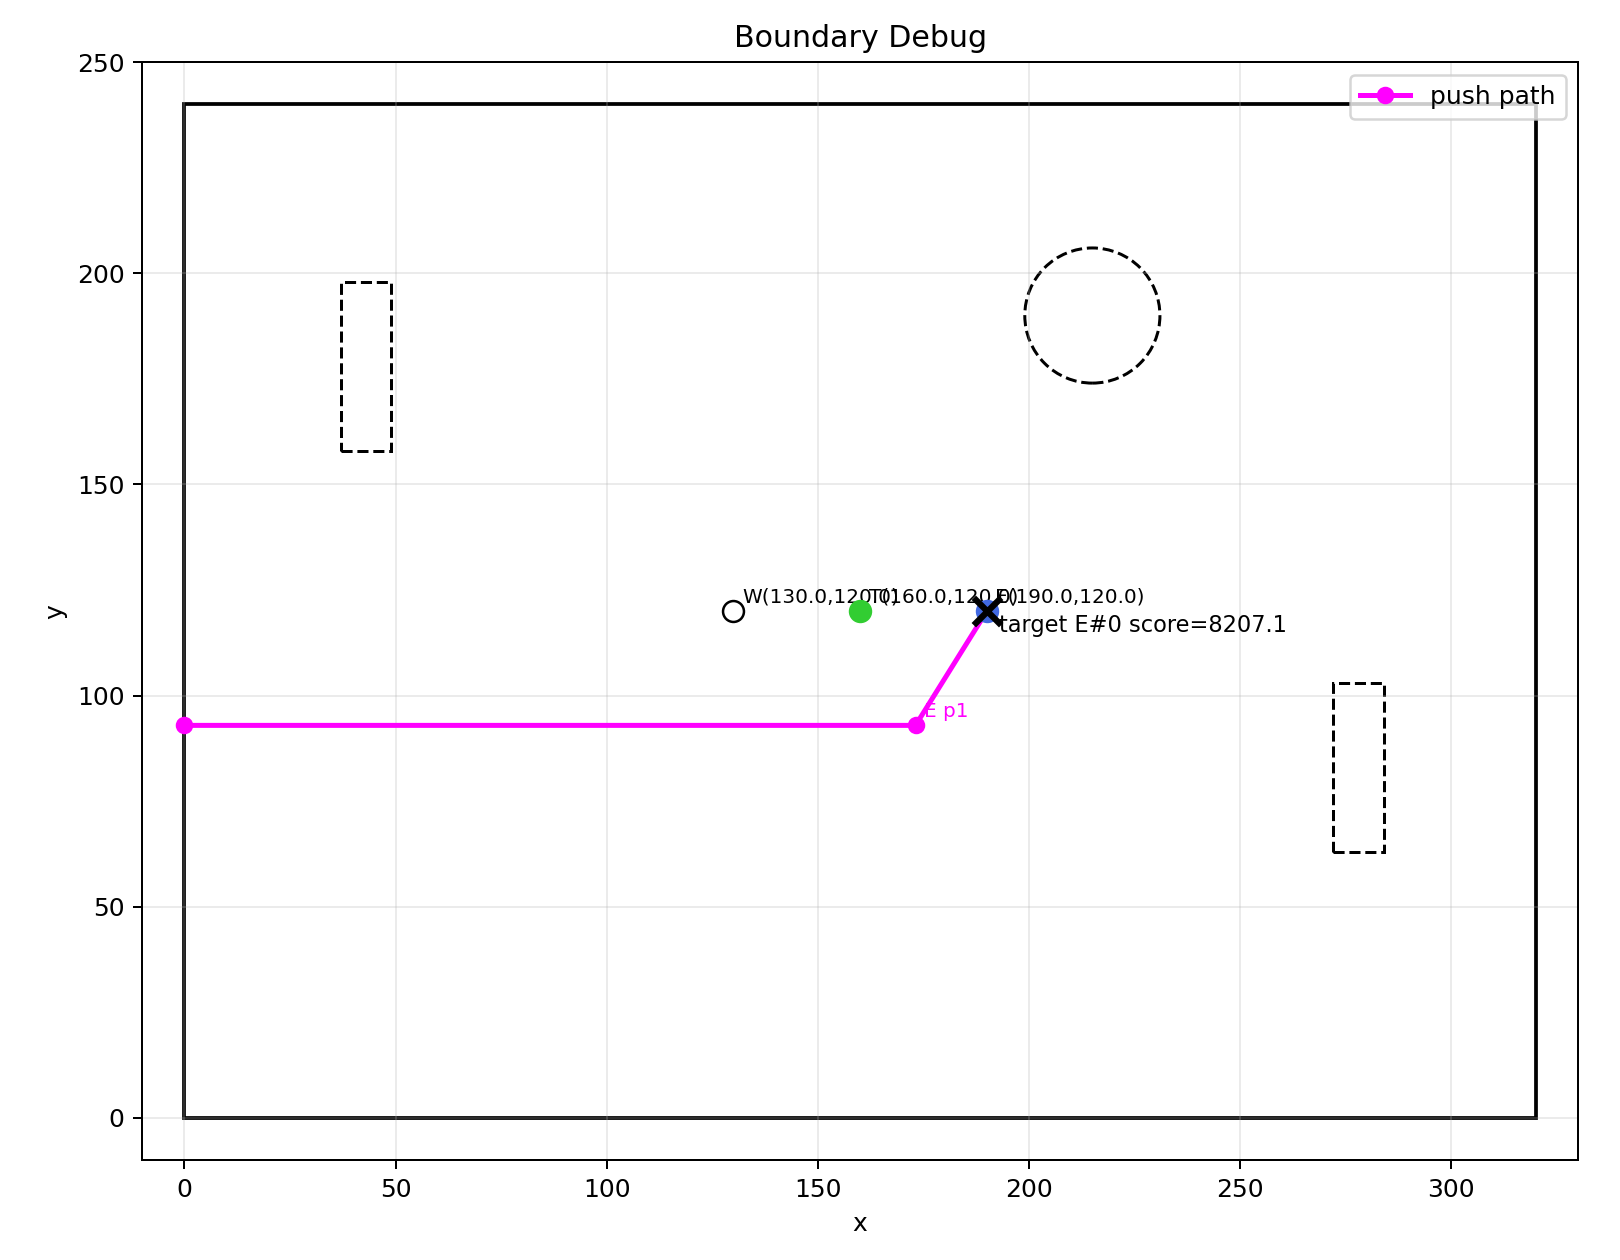
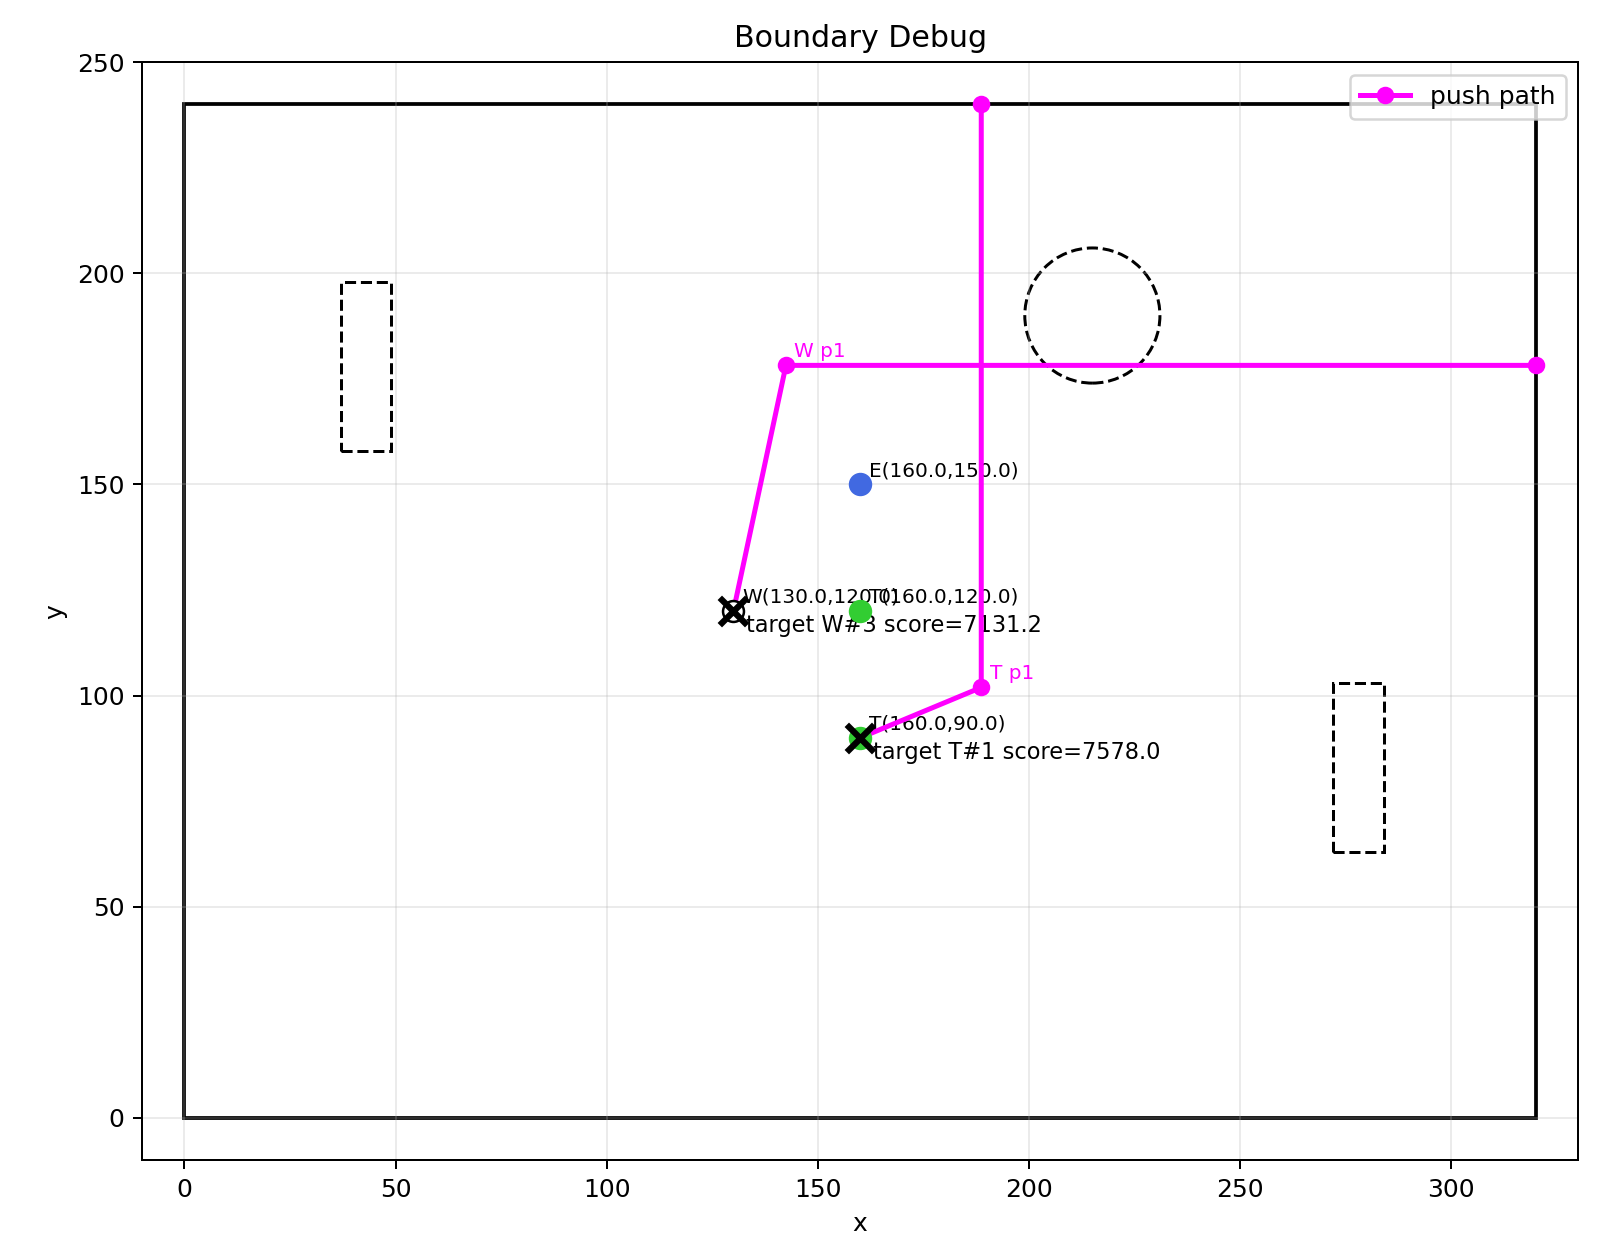
调整障碍物宽度和高度，优化目标点位置和路径评分逻辑

diff --git a/main_car/ant_move.py b/main_car/ant_move.py
@@ -302,7 +302,7 @@ class MoveControl:
     def reset_car_pos(self):
         current_object = self.vision_manager.current_servo_object
         # 经验修正值
-        correction = 2.0
+        correction = -3.0
         if current_object == 'T':
             self.my_car.y_current = self.plan_data.FIELD_H - correction
         elif current_object in ['S', 'E']:
@@ -329,12 +329,14 @@ class MoveControl:
             if self.my_car.now_yaw>-PI/2 and self.my_car.now_yaw<PI/2:swell_dir=180
             else:swell_dir=0
         else: return False
-        plan_path = self.move_plan.plan_move(self.move_dir,swell_dir,objects,limit_angle = 45)
+        plan_path = self.move_plan.plan_move(self.move_dir,swell_dir,objects,limit_angle = 55)
+        used_path = 2
         if not plan_path or len(plan_path)<=1:
             try:
+                used_path = 1
                 dx,dy = self.saved_best_path
-                dx-=self.push_postion[0]*10
-                dy-=self.push_postion[1]*10
+                # dx+=self.push_postion[0]*10
+                # dy+=self.push_postion[1]*10
                 p0 = [self.my_car.x_current,self.my_car.y_current]
                 p1 = [self.my_car.x_current+dx,self.my_car.y_current+dy]
                 if self.move_dir==0:p2 = [self.my_car.x_current+dx,260]
@@ -367,6 +369,7 @@ class MoveControl:
             p2=[plan_path[2][0]+self.push_postion[0]*now_clamp*self.twist_clamp_factor,plan_path[2][1]+self.push_postion[1]*now_clamp*self.twist_clamp_factor]
             #self.my_plan.fitting_path_ = [plan_path[0],p1,p2]
             self.plan_path = plan_path[1:]
+        self.my_write_system.write_str(f"used path:{used_path},dx:{self.send_point[0]},dy:{self.send_point[1]},car_x:{self.my_car.x_current},car_y:{self.my_car.y_current},push_pos:{self.push_postion}\n")
         return True 
     # 状态过渡函数
     def state_transition(self):
@@ -474,7 +477,7 @@ class MoveControl:
         if self.current_state == NAVIGATE:
             NAV_T=self.navigate_buffer
             if self.if_first_navigate:
-                self.my_plan.navigate(NAV_T['MAIN_P'],NAV_T['ANGLE'][0],if_first_turn=False)
+                self.my_plan.navigate(NAV_T['MAIN_P'],NAV_T['ANGLE'][0])
             else:
                 self.my_plan.navigate(NAV_T['MAIN_P'], NAV_T['ANGLE'][0],if_high_angle=True,if_first_turn=False)
             if self.if_send_navigate_command == False:
@@ -488,7 +491,7 @@ class MoveControl:
                 return
         elif self.current_state == SCAN:
             NAV_T=self.navigate_buffer
-            self.my_plan.navigate(NAV_T['MAIN_P'],NAV_T['ANGLE'][0])
+            self.my_plan.navigate(NAV_T['MAIN_P'],NAV_T['ANGLE'][0],if_first_turn=False)
             self.state_transition()
         elif self.current_state == ORBIT:
             if self.vision_manager.if_finish_orbit:
@@ -508,6 +511,7 @@ class MoveControl:
                 self.my_photo.reset_photo()
                 self.my_beep.test()
                 self.my_plan.if_finish_navigate = True
+                self.my_write_system.write_str(f"finish_move--car_x:{self.my_car.x_current},car_y:{self.my_car.y_current}\n")
             self.my_plan.navigate(path = self.plan_path)
             if self.my_plan.if_finish_navigate == True:
                 self.state_transition()

diff --git a/main_car/ant_boundary_plan.py b/main_car/ant_boundary_plan.py
@@ -322,8 +322,8 @@ class objects_planner:
         self.now_idx = 0
         gc.collect()
     def set_barriers(self,barriers):
-        wideness={'T':2.5,'S':2.5,'E':2.5,'B':2,'W':2,}
-        height={'T':2.5,'S':2.5,'E':2.5,'B':2,'W':2,}
+        wideness={'T':4.0,'S':3.0,'E':3.0,'B':3.0,'W':3.0,}
+        height={'T':4.0,'S':3.0,'E':3.0,'B':3.0,'W':3.0,}
         for i in self.now_objects:
             w,h=wideness[i[0]],height[i[0]]
             barriers.append([i[1],i[2],w,h])
@@ -391,6 +391,15 @@ class objects_planner:
                 score = 0
                 dir,sdir=self.judge_push_direction(i[1])
                 if dir < side_to_dir[car_side]+0.1 and dir > side_to_dir[car_side]-0.1:score+=self.my_BoundaryPath.forward_push_value
+
+                # 根据物体的种类调整目标点的位置，S和E向前移动10，B和W向后移动10，T向上移动10
+                if i[1] in ['S', 'E']:  
+                    i[2] += 10.0
+                elif i[1] in ['B', 'W']:
+                    i[2] -= 10.0
+                elif i[1] in ['T']:
+                    i[3] -= 10.0 
+
                 path = self.my_BoundaryPath.plan_move(dir, sdir, self.barrier, i[2], i[3], skip_idx=i[0])
                 push_distance,push_angle= 1000,90
                 if (i[1] == 'S' or i[1] == 'E') and self.last_sandbag_idx == 0:score+=1000
@@ -409,16 +418,19 @@ class objects_planner:
                     push_angle = abs(push_yaw - dir)
                     if push_angle > 180:
                         push_angle = 360 - push_angle
-                if abs(push_angle) > 45: score+=5000
+
+                # 大角度搬运路径加分
+                if abs(push_angle) > 55: 
+                    if i[1] == 'T': 
+                        score+=10000
+                    else:
+                        score+=5000
+
                 dx_car = i[2] - self.my_car.x_current
                 dy_car = i[3] - self.my_car.y_current
                 distance_from_car = math.sqrt(dx_car * dx_car + dy_car * dy_car)
-                if i[1] != 'T':
-                    score += push_distance + push_angle*15 +distance_from_car*8
-                    self.my_write.write_str("object {} push_dis:{} angle:{} dis:{}\n".format(i[1], push_distance, push_angle*15, distance_from_car*8))
-                else:
-                    score += push_distance + push_angle*30 +distance_from_car*8
-                    self.my_write.write_str("object {} push_dis:{} angle:{} dis:{}\n".format(i[1], push_distance, push_angle*30, distance_from_car*8))
+                score += push_distance + push_angle ** 2+distance_from_car*8
+                self.my_write.write_str("object {} push_dis:{} angle:{} dis:{}\n".format(i[1], push_distance, push_angle*15, distance_from_car*8))
                 self.target_score.append(score)
                 self.now_idx+=1
             return False

diff --git a/slave_car/ant_move.py b/slave_car/ant_move.py
@@ -316,7 +316,11 @@ class MoveControl:
         # 角度限幅到 [-180, 180)
         target_turn = (target_turn + 180.0) % 360.0 - 180.0
         car_postion = target_turn
-        
+
+        if sp in ['S','E']:self.__angle = self.vision_manager.angle_S
+        elif sp == 'T':self.__angle = self.vision_manager.angle_T
+        else:self.__angle = self.vision_manager.angle_B
+
         angle_l=(target_turn + self.__angle + 180.0) % 360.0 - 180.0
         angle_r=(target_turn - self.__angle + 180.0) % 360.0 - 180.0
         angle_l0=(current_ref_yaw_deg + self.__angle + 180.0) % 360.0 - 180.0
@@ -387,7 +391,7 @@ class MoveControl:
     def reset_car_pos(self):
         current_object = self.vision_manager.current_servo_object
         # 经验修正值
-        correction = 2.0
+        correction = -3.0
         if current_object == 'T':
             self.my_car.y_current = self.plan_data.FIELD_H - correction
         elif current_object in ['S', 'E']:

diff --git a/main_car/user_main.py b/main_car/user_main.py
@@ -586,7 +586,7 @@ def time_pit2_handler(time):
     # my_uart3.write(f"{angle_pid.kp},{angle_pid.target},{angle_pid.actual},{angle_pid.pwm_output}\n")
     # my_uart3.write(f"{my_vision_manager.if_lost_object}\r\n")
     # my_uart3.write(f"{my_moving.current_state},{my_vision_manager.if_lost_object}\r\n")
-    # my_uart3.write(f"{pose_data.now_pitch},{pose_data.now_roll},{pose_data.now_yaw},{pose_data.acc_x},{pose_data.acc_y},{pose_data.acc_z},{pose_data.gyro_x},{pose_data.gyro_y},{pose_data.gyro_z}\n")
+    # my_uart2.write(f"{pose_data.now_pitch},{pose_data.now_roll},{pose_data.now_yaw},{pose_data.acc_x},{pose_data.acc_y},{pose_data.acc_z},{pose_data.gyro_x},{pose_data.gyro_y},{pose_data.gyro_z}\n")
     # my_uart3.write(f"{pose_data.now_pitch},{pose_data.now_roll},{pose_data.now_yaw},{pose_data.gyro_z}\n")
     # my_uart3.write("{:<f},{:<f}\n".format(my_car.x_current, my_car.y_current))
     # my_uart3.write(f"{my_car.alpha_x},{my_car.alpha_y}\r\n")

diff --git a/slave_car/user_main.py b/slave_car/user_main.py
@@ -42,6 +42,7 @@ else:
     gc.collect()
     # 引入 VL53L4CD 驱动
     from vl53l4cd import VL53L4CD
+    import os
 
 ###################################【变量定义及初始化】###################################
 PI = const(3.1415926)
@@ -94,6 +95,7 @@ my_uart3 = UART(2)
 my_uart3.init(115200)
 my_uart2 = UART(1)
 my_uart2.init(115200)
+os.dupterm(my_uart2)
 
 # ------------------------------------------------------------------------------
 #   初始化 I2C 总线

diff --git a/main_car/ant_motor.py b/main_car/ant_motor.py
@@ -603,7 +603,7 @@ class AnglePositionPID(ControlPID):
             elif short_error < -180.0:
                 short_error += 360.0
 
-            if abs(short_error) <= 2.0:
+            if abs(short_error) <= 10.0:
                 # 死区内：已接近目标，直接用短路径收敛
                 self.nowError = short_error
                 self.effective_target = 0.0  # 下次换target时重新计算

diff --git a/main_car/ant_task.py b/main_car/ant_task.py
@@ -466,7 +466,7 @@ class TaskController:
 
     def merge_nearby_same_kind(self,objects, threshold_near=10.0):
         merged = []
-        threshold_far = threshold_near+5
+        threshold_far = threshold_near+10
         for kind, x, y in objects:
             match_idx = -1
             for idx, (old_kind, old_x, old_y) in enumerate(merged):

diff --git a/slave_car/vl53l4cd.py b/slave_car/vl53l4cd.py
@@ -95,7 +95,7 @@ class VL53L4CD:
         self._write_register(0x0B, b"\x00")
         self._write_register(0x0024, b"\x05\x00")
         self.inter_measurement = 0
-        self.timing_budget = 15
+        self.timing_budget = 20
     
     @property
     def model_info(self):
